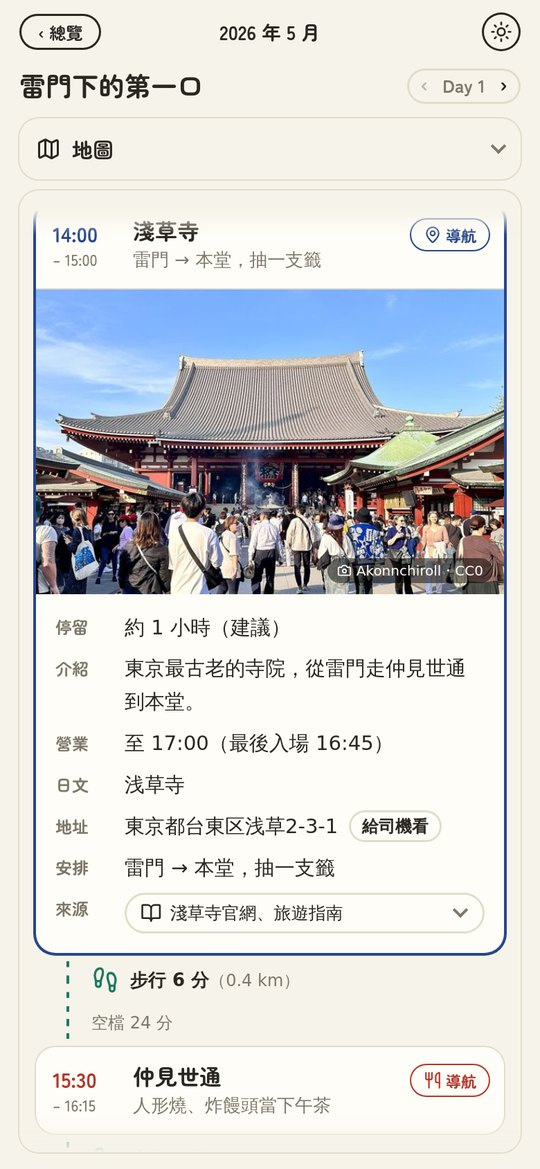
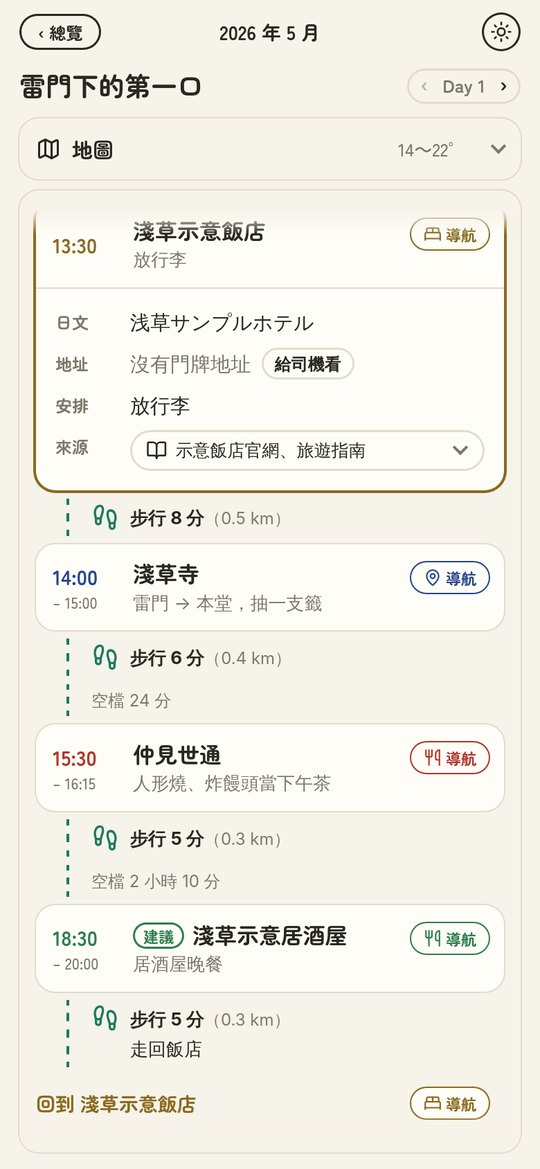
README: re-taken shots (move notes, transfer point, the forecast in the map row, the new map marks) and two pain rows
The demo trip's D2 changes line at 淺草 (a transfer point with platform facts) and
carries a made-up week-before forecast; its walks have no words of their own, so the
reader shows none.

tests_browser/test_home_map.py: a home ~27 km from the day's stops is now an edge arrow
(#38 M4); the guard checks the arrow lies inside the frame as it did the dot.

README update bundled in this PR.

Claude-Session: https://claude.ai/code/session_018PWF1t2mE5ZMTrTz7XmN1p

diff --git a/docs/images/readme/demo_trip.py b/docs/images/readme/demo_trip.py
@@ -102,11 +102,11 @@ def itinerary():
                   _mv("rail", 20, 45, basis="sourced", text="京急線直通淺草線",
                       source_url="https://rail.example/keikyu", **{"from": "羽田空港", "to": "淺草"}),
                   {"slot": "lodging", "time": "13:30", "poi_id": "demo-hotel", "text": "放行李"},
-                  _mv("walk", 0.5, 8),
+                  _mv("walk", 0.5, 8, text=""),
                   _stop("visit", "14:00", "senso-ji", "雷門 → 本堂，抽一支籤"),
-                  _mv("walk", 0.4, 6),
+                  _mv("walk", 0.4, 6, text=""),
                   _stop("meal", "15:30", "nakamise", "人形燒、炸饅頭當下午茶"),
-                  _mv("walk", 0.3, 5),
+                  _mv("walk", 0.3, 5, text=""),
                   _stop("meal", "18:30", "izakaya", "居酒屋晚餐"),
                   _mv("walk", 0.3, 5, text="走回飯店")]},
         {"date": "2026-05-13", "lodging": "demo-hotel", "theme": "上野一整天，晚上看塔",
@@ -117,19 +117,27 @@ def itinerary():
                            "fallback": "改上淺草文化觀光中心 8 樓免費展望台", "poi_id": "asakusa-tic"}],
          "rows": [_mv("rail", 2.5, 12, basis="sourced", text="銀座線 淺草 → 上野", source_url="https://rail.example/ginza"),
                   _stop("visit", "09:30", "ueno-park", "不忍池邊散步"),
-                  _mv("walk", 0.6, 10),
+                  _mv("walk", 0.6, 10, text=""),
                   _stop("visit", "10:45", "tnm", "本館看日本美術"),
-                  _mv("walk", 1.0, 15),
+                  _mv("walk", 1.0, 15, text=""),
                   _stop("meal", "13:00", "ameyoko", "海鮮丼午餐"),
-                  _mv("rail", 6, 25, basis="sourced", text="銀座線＋淺草線到押上", source_url="https://rail.example/oshiage"),
+                  # a change of line with its transfer point (#37) and platform facts (#32 / #22)
+                  dict(_mv("rail", 3, 12, basis="sourced", text="銀座線往淺草方向，坐到終點",
+                           source_url="https://rail.example/ginza"), time="15:40",
+                       board_at="上野広小路駅 2番線", board_at_en="Ueno-hirokoji", route="銀座線",
+                       route_en="Ginza Line", alight_at="浅草駅", alight_at_en="Asakusa", pay="刷 IC 卡"),
+                  {"slot": "transfer", "place": "浅草駅（淺草站）", "platform": "淺草線 1番線",
+                   "text": "出銀座線剪票口，跟藍色「淺草線」指標走約 5 分"},
+                  dict(_mv("rail", 1.5, 3, basis="sourced", text="都營淺草線 淺草 → 押上",
+                           source_url="https://rail.example/asakusa"), time="16:20"),
                   _stop("visit", "17:00", "skytree", "看夕陽轉夜景"),
-                  _mv("walk", 0.4, 6),
+                  _mv("walk", 0.4, 6, text=""),
                   _stop("meal", "19:00", "kappo", "會席晚餐"),
                   _mv("taxi", 2.5, 10, text="計程車回飯店")]},
         {"date": "2026-05-14", "theme": "最後再逛一圈淺草", "theme_refs": ["nakamise"],
          "theme_candidates": six(["最後再逛一圈淺草", "早上的門，最後的燒", "人形燒還買得下嗎？",
                                   "行李都收好了才想再吃", "早餐、伴手禮、機場", "淺草，在後照鏡裡揮手"], "nakamise"),
-         "rows": [_mv("walk", 0.3, 5),
+         "rows": [_mv("walk", 0.3, 5, text=""),
                   _stop("meal", "09:30", "nakamise", "早上的仲見世，買伴手禮"),
                   _mv("rail", 20, 45, basis="sourced", text="淺草線直通京急線",
                       source_url="https://rail.example/keikyu", **{"from": "淺草", "to": "羽田空港"}),
@@ -181,6 +189,24 @@ RESERVATIONS = {"reservations": [
 ]}
 
 
+# the week-before forecast (#31): made-up figures, in the shape scripts/forecast.py writes
+FORECAST = {"fetched_at": "2026-05-11T17:00+09:00", "days": [
+    {"date": "2026-05-12", "tmin": 14, "tmax": 22, "weather": "晴時多雲", "pop": 10, "kind": "official",
+     "source": "日本氣象廳 週間天氣預報", "source_url": "https://www.jma.go.jp/bosai/forecast/"},
+    {"date": "2026-05-13", "tmin": 15, "tmax": 19, "weather": "多雲短暫雨", "pop": 60, "rain": True,
+     "kind": "official", "source": "日本氣象廳 週間天氣預報", "source_url": "https://www.jma.go.jp/bosai/forecast/"},
+    {"date": "2026-05-14", "tmin": 16, "tmax": 23, "weather": "晴", "pop": 0, "kind": "official",
+     "source": "日本氣象廳 週間天氣預報", "source_url": "https://www.jma.go.jp/bosai/forecast/"}]}
+
+
+def _fresh(fc):
+    """The demo forecast as fetched an hour before the shots, so the reader does not mark
+    it 預報已過時 (the page compares with the device clock)."""
+    import datetime
+    at = datetime.datetime.now(datetime.timezone(datetime.timedelta(hours=9))) - datetime.timedelta(hours=1)
+    return dict(fc, fetched_at=at.isoformat(timespec="minutes"))
+
+
 def brief():
     heads = ["雷門下吃到撐", "為了人形燒走遍淺草", "晴空塔看我們吃午餐", "淺草吃不停",
              "東京三天胖三斤", "上野的午餐很有料"]
@@ -213,7 +239,8 @@ def render(root):
                      load_media(artifact_path(t, "verified-pois-media.yaml")))
     reader = root / "reader.html"
     reader.write_text(render_reader(itin, pm, brief=b, accommodations=ACC, advisory=R.ADVISORY,
-                                    legs=LEGS, maps=maps, cost=COST, reservations=RESERVATIONS), encoding="utf-8")
+                                    legs=LEGS, maps=maps, cost=COST, reservations=RESERVATIONS,
+                                    forecast=_fresh(FORECAST)), encoding="utf-8")
     picker = root / "picker.html"
     picker.write_text(picker_page(itin, b, ACC), encoding="utf-8")
     return reader, picker, lock(root, reader)

diff --git a/tests/test_reader_review_elements.py b/tests/test_reader_review_elements.py
@@ -9,7 +9,6 @@ from bs4 import BeautifulSoup
 
 from scripts.render.reader import render_reader
 from scripts.render.reader.theme import CSS
-from tests.reader_fixture import _mv
 
 import sys, pathlib
 sys.path.insert(0, str(pathlib.Path(__file__).resolve().parents[1] / "docs" / "images" / "readme"))
@@ -19,15 +18,7 @@ TZ = datetime.timezone(datetime.timedelta(hours=9))
 
 
 def _trip(fetched=None):
-    itin = D.itinerary()
-    d2 = itin["days"][1]["rows"]
-    k = next(i for i, r in enumerate(d2) if r.get("text", "").startswith("銀座線＋淺草線"))
-    d2[k:k + 1] = [
-        dict(_mv("rail", 3, 12, basis="sourced", text="銀座線 往淺草方向", source_url="https://rail.example/g"),
-             time="15:40", board_at="上野広小路駅 2番線", board_at_en="Ueno-hirokoji", alight_at="浅草駅",
-             alight_at_en="Asakusa", route="銀座線", route_en="Ginza Line", pay="刷 IC 卡"),
-        {"slot": "transfer", "place": "浅草駅（淺草站）", "platform": "淺草線 1番線", "text": "跟藍色指標走"},
-        dict(_mv("rail", 1.5, 3, basis="sourced", text="都營淺草線", source_url="https://rail.example/a"), time="16:20")]
+    itin = D.itinerary()        # D2 carries a change of line: platform facts and a transfer point
     pois = copy.deepcopy(D.POIS)
     for p in pois:
         if p["id"] == "ameyoko":
@@ -51,13 +42,14 @@ def test_move_notes_are_open_with_one_fact_a_line():
     leg = next(l for l in s.select(".leg") if "Ginza Line" in l.get_text())
     facts = [f.select_one("b").get_text() for f in leg.select(".lfa .lf")]
     assert facts == ["上車", "車次", "下車", "付款", "售票機"]
-    assert leg.select_one(".lnt").get_text() == "銀座線 往淺草方向" and not leg.select("details")
+    assert leg.select_one(".lnt").get_text() == "銀座線往淺草方向，坐到終點" and not leg.select("details")
 
 
 def test_a_transfer_is_a_dot_on_the_line_with_its_wait():
     t = _trip().select_one('section[data-pg="d2"] .tfr')
     assert t.select_one(".tdot") and t.select_one(".tn").get_text() == "浅草駅（淺草站）"
     assert t.select_one(".twt").get_text() == "等 28 分" and "淺草線 1番線" in t.get_text()
+    assert t.find_previous_sibling().select_one(".lu.m-rail")       # on the move line, after the ride
 
 
 def test_no_address_sheet_names_the_place_and_points_at_navigation():

diff --git a/tests_browser/test_home_map.py b/tests_browser/test_home_map.py
@@ -24,6 +24,8 @@ def home_url(tmp_path_factory):
 
 
 def test_home_pin_on_first_and_last_day(open_page, home_url):
+    # #38 M4: this home is ~27 km from the day's stops, so it is an arrow at the frame's
+    # edge (path.ea) rather than a dot -- either way it is drawn inside the frame
     url, labels = home_url
     pg = open_page(PHONE, js=False, url=url)
     for d, chip, pid in ((1, 1, "home-origin"), (2, -1, "home-return")):
@@ -32,7 +34,7 @@ def test_home_pin_on_first_and_last_day(open_page, home_url):
         chips = pg.eval_on_selector_all(f"section[data-pg=d{d}] .mapc .chips a.chip", "es=>es.map(e=>e.textContent)")
         assert chips[chip] == (labels["home_start"] if d == 1 else labels["home_end"])
         inside = pg.evaluate(f"""(()=>{{const v=document.querySelector('section[data-pg=d{d}] .mv-d{d}-all');
-            const p=v.querySelector('g.pin[data-poi="{pid}"] circle');if(!p)return null;
+            const p=v.querySelector('g.pin[data-poi="{pid}"] circle, g.pin[data-poi="{pid}"] path.ea');if(!p)return null;
             const f=p.closest('.mframe').getBoundingClientRect(),c=p.getBoundingClientRect();
             return c.left>=f.left&&c.right<=f.right&&c.top>=f.top&&c.bottom<=f.bottom}})()""")
         assert inside is True, (d, inside)
